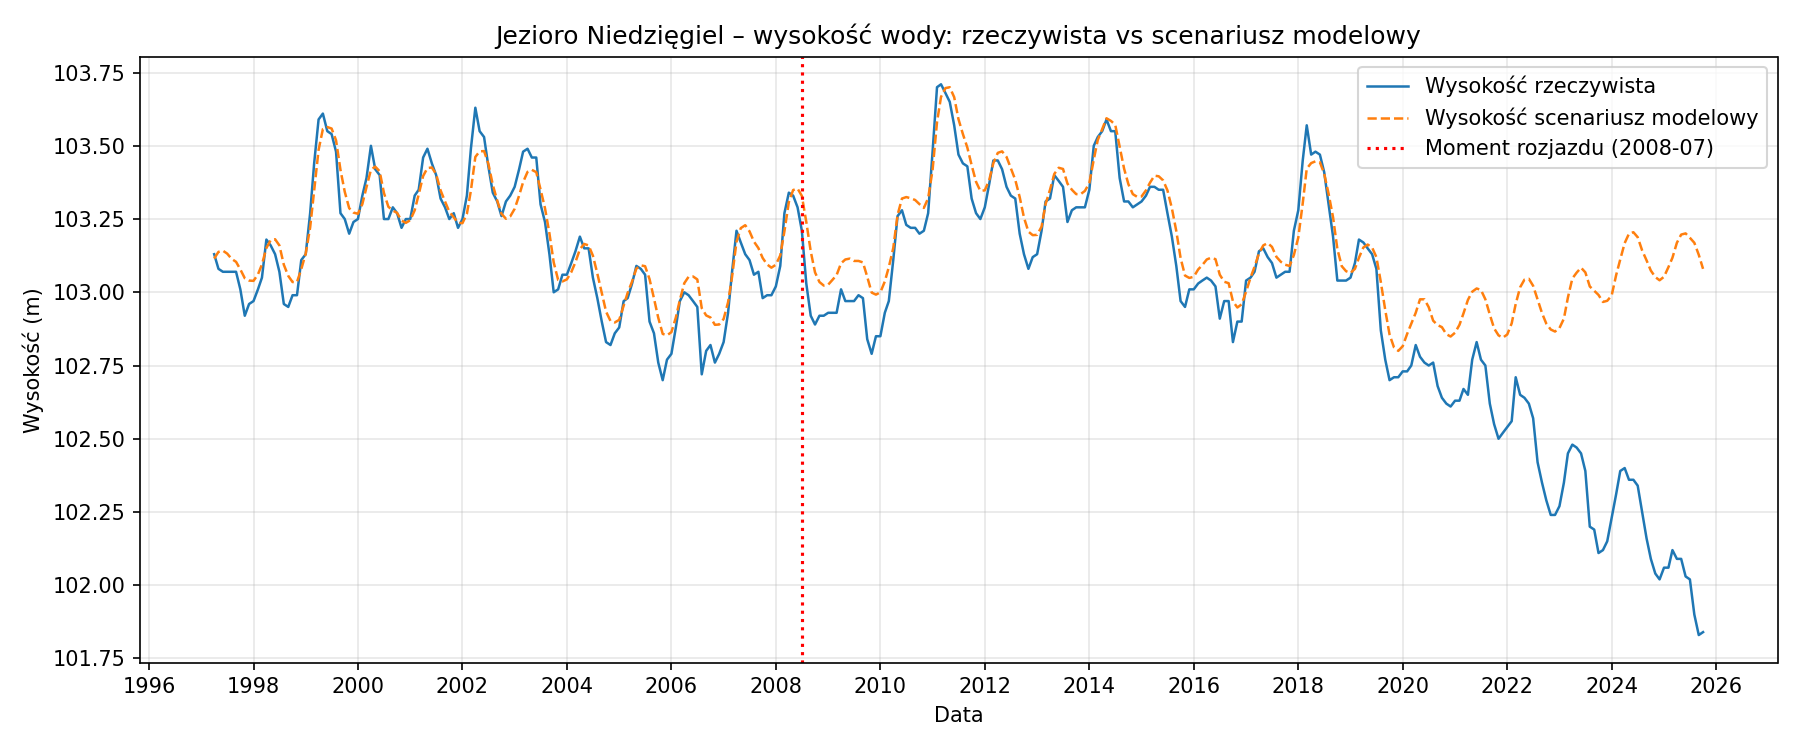
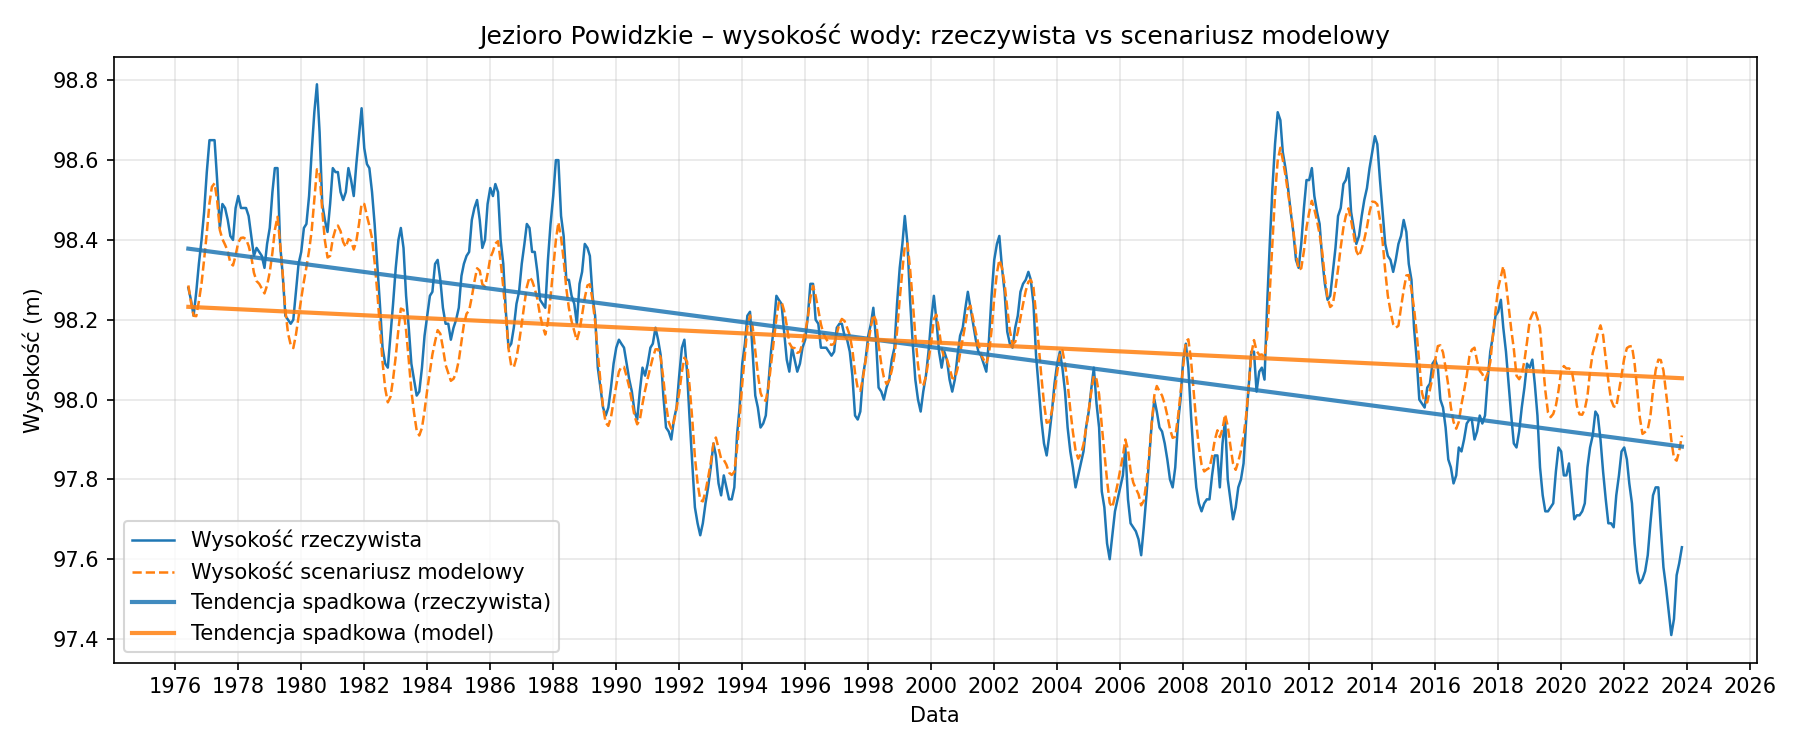
2026.02.14

diff --git a/generate_report.py b/generate_report.py
@@ -37,24 +37,24 @@ def _test_start_label(lake_id):
 
 def _plot_wysokosci(rows, figs_dir, lake_name):
     dates = [np.datetime64(r["data"] + "-01") for r in rows]
-    rzeczywista = np.array([r["wysokosc_rzeczywista"] for r in rows], dtype=float)
-    model = np.array([r["wysokosc_model"] for r in rows], dtype=float)
+    rzeczywista = np.array([float(r["wysokosc_rzeczywista"]) for r in rows])
+    model = np.array([float(r["wysokosc_model"]) for r in rows])
     n = len(dates)
     fig, ax = plt.subplots(figsize=(12, 5))
     ax.plot(dates, rzeczywista, label="Wysokość rzeczywista", color="#1f77b4", linewidth=1.2)
     ax.plot(dates, model, label="Wysokość scenariusz modelowy", color="#ff7f0e", linewidth=1.2, linestyle="--")
+    x = np.arange(n, dtype=float)
     if n >= 2:
-        x = np.arange(n)
-        ok_r = np.isfinite(rzeczywista)
-        ok_m = np.isfinite(model)
-        if np.sum(ok_r) >= 2:
-            coef_r = np.polyfit(x[ok_r], rzeczywista[ok_r], 1)
-            trend_r = np.polyval(coef_r, x)
-            ax.plot(dates, trend_r, label="Tendencja spadkowa (rzeczywista)", color="#1f77b4", linewidth=2, linestyle="-", alpha=0.85)
-        if np.sum(ok_m) >= 2:
-            coef_m = np.polyfit(x[ok_m], model[ok_m], 1)
-            trend_m = np.polyval(coef_m, x)
-            ax.plot(dates, trend_m, label="Tendencja spadkowa (model)", color="#ff7f0e", linewidth=2, linestyle="-", alpha=0.85)
+        r_clean = rzeczywista.copy()
+        r_clean[~np.isfinite(r_clean)] = np.nanmean(rzeczywista) if np.any(np.isfinite(rzeczywista)) else 0.0
+        m_clean = model.copy()
+        m_clean[~np.isfinite(m_clean)] = np.nanmean(model) if np.any(np.isfinite(model)) else 0.0
+        coef_r = np.polyfit(x, r_clean, 1)
+        coef_m = np.polyfit(x, m_clean, 1)
+        trend_r = np.polyval(coef_r, x)
+        trend_m = np.polyval(coef_m, x)
+        ax.plot(dates, trend_r, label="Tendencja spadkowa (rzeczywista)", color="#1f77b4", linewidth=2, linestyle="-", alpha=0.85)
+        ax.plot(dates, trend_m, label="Tendencja spadkowa (model)", color="#ff7f0e", linewidth=2, linestyle="-", alpha=0.85)
     ax.set_xlabel("Data")
     ax.set_ylabel("Wysokość (m)")
     ax.set_title(f"{lake_name} – wysokość wody: rzeczywista vs scenariusz modelowy")
